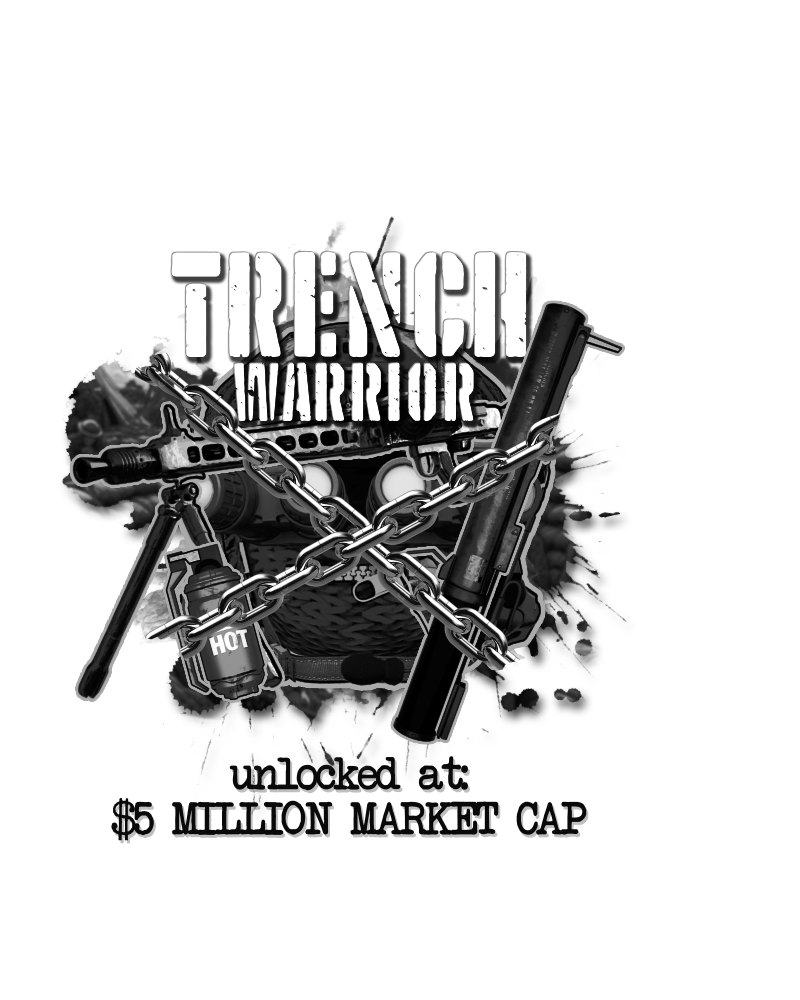
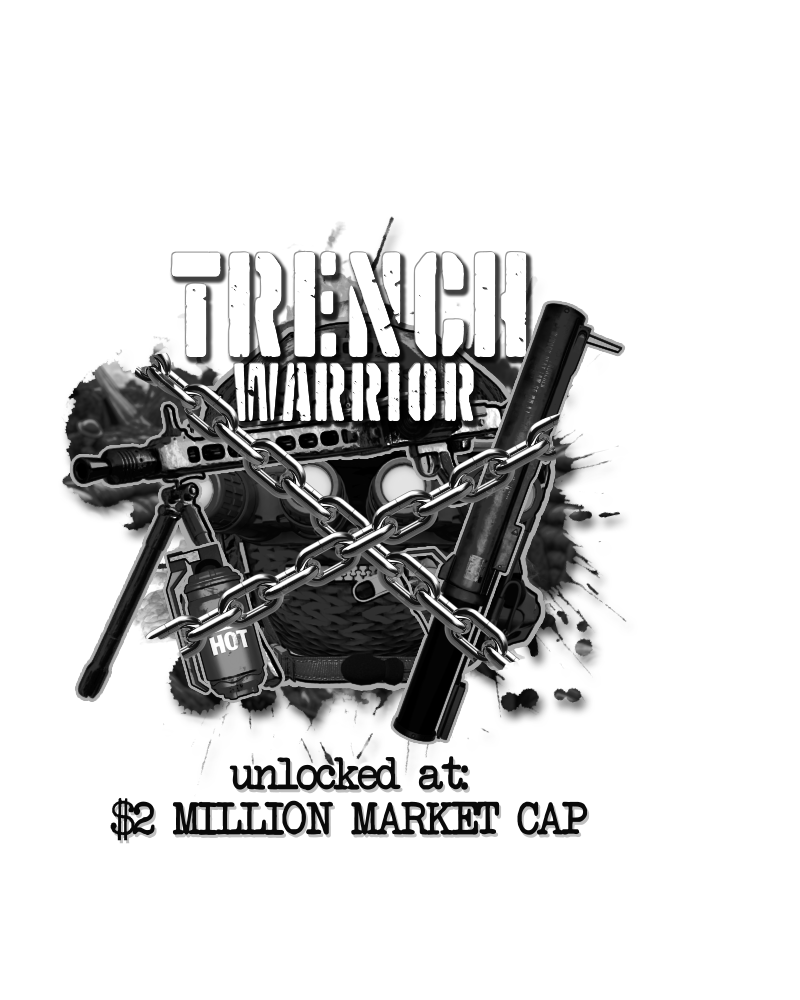
feat: change marketcap limits

Changed region(s): [[0.4375, 0.806, 0.7188, 0.837], [0.125, 0.806, 0.4062, 0.837]]

diff --git a/src/game/scenes/Preloader.ts b/src/game/scenes/Preloader.ts
@@ -328,7 +328,7 @@ export default class Preloader extends Phaser.Scene {
         name: "mil",
         price: 10000,
         purchased: skinPurchases["mil"] ?? false,
-        unlocked: this.getMarketcap() >= 5000000,
+        unlocked: this.getMarketcap() >= 2000000,
       },
       5: {
         name: "santa",
@@ -340,7 +340,7 @@ export default class Preloader extends Phaser.Scene {
         name: "sol",
         price: 22000,
         purchased: skinPurchases["sol"] ?? false,
-        unlocked: this.getMarketcap() >= 10000000,
+        unlocked: this.getMarketcap() >= 5000000,
       },
       7: {
         name: "coming-soon",
@@ -361,12 +361,12 @@ export default class Preloader extends Phaser.Scene {
       3: {
         name: "MIL",
         bg: "tier3-bg",
-        unlocked: this.getMarketcap() >= 5000000,
+        unlocked: this.getMarketcap() >= 2000000,
       },
       4: {
         name: "SOL",
         bg: "tier4-bg",
-        unlocked: this.getMarketcap() >= 10000000,
+        unlocked: this.getMarketcap() >= 5000000,
       },
     };
     this.registry.set("tier-buttons", tierButtons);

diff --git a/src/lib/sets.ts b/src/lib/sets.ts
@@ -1,4 +1,4 @@
-export const MARKETCAP = "10000000";
+export const MARKETCAP = "0";
 export const SANTA_SKIN_UNLOCKED = false;
 export const BLOOD_BOX_UNLOCKED = false;
 export const BURNER_UNLOCKED = false;
